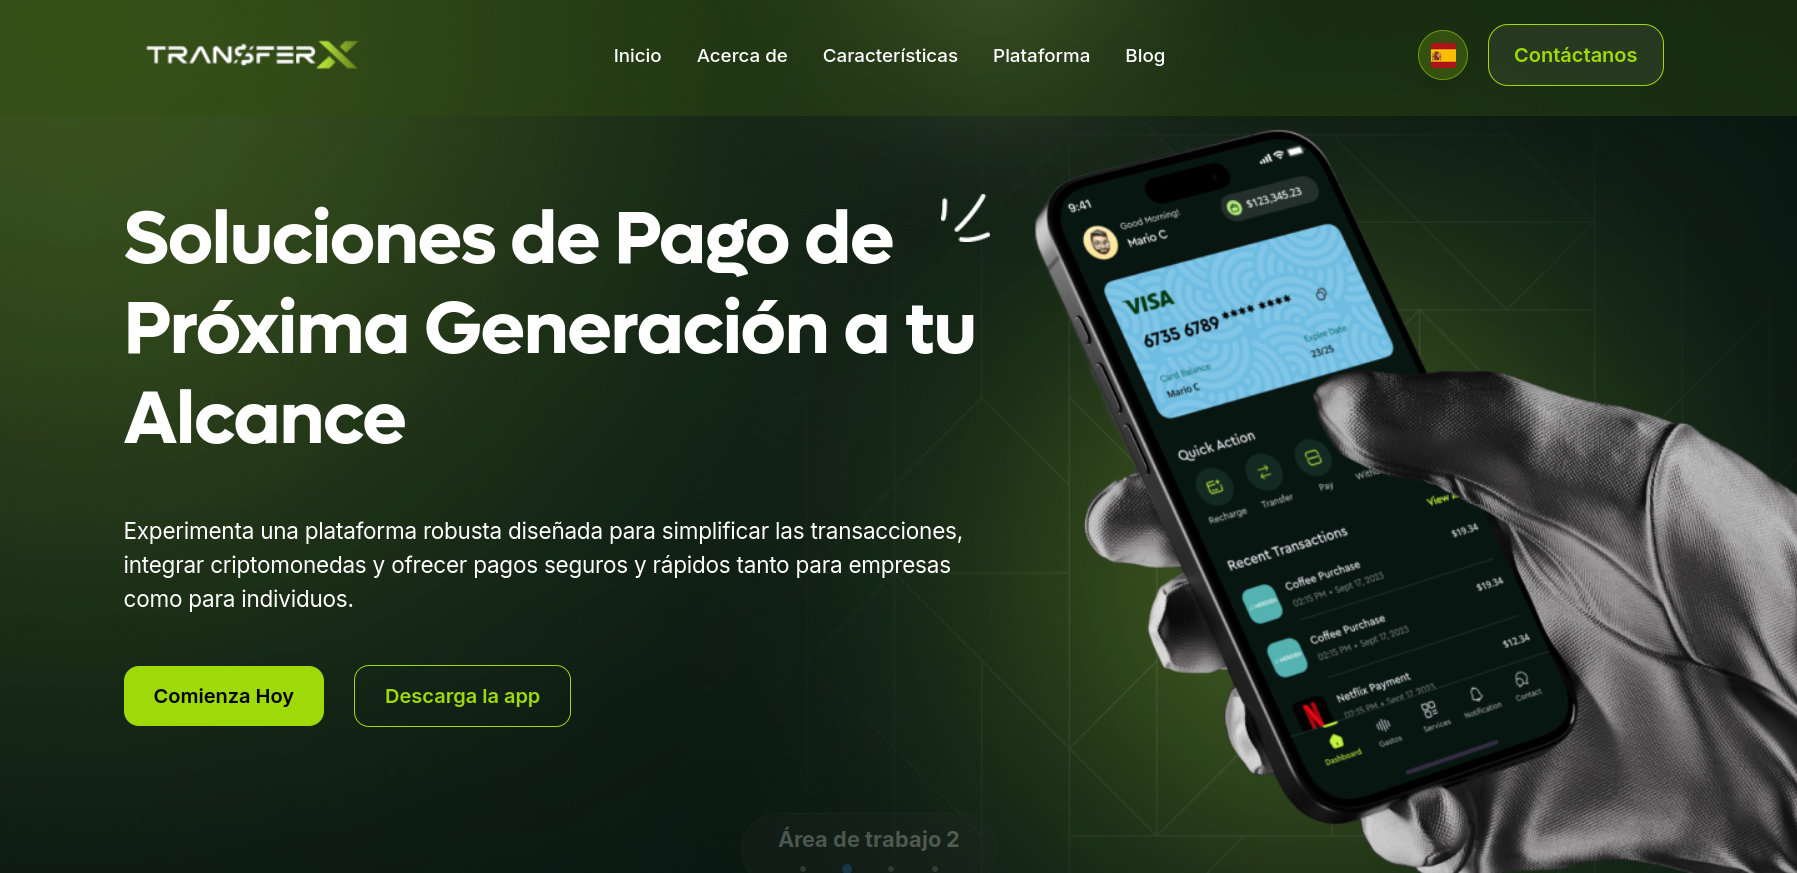
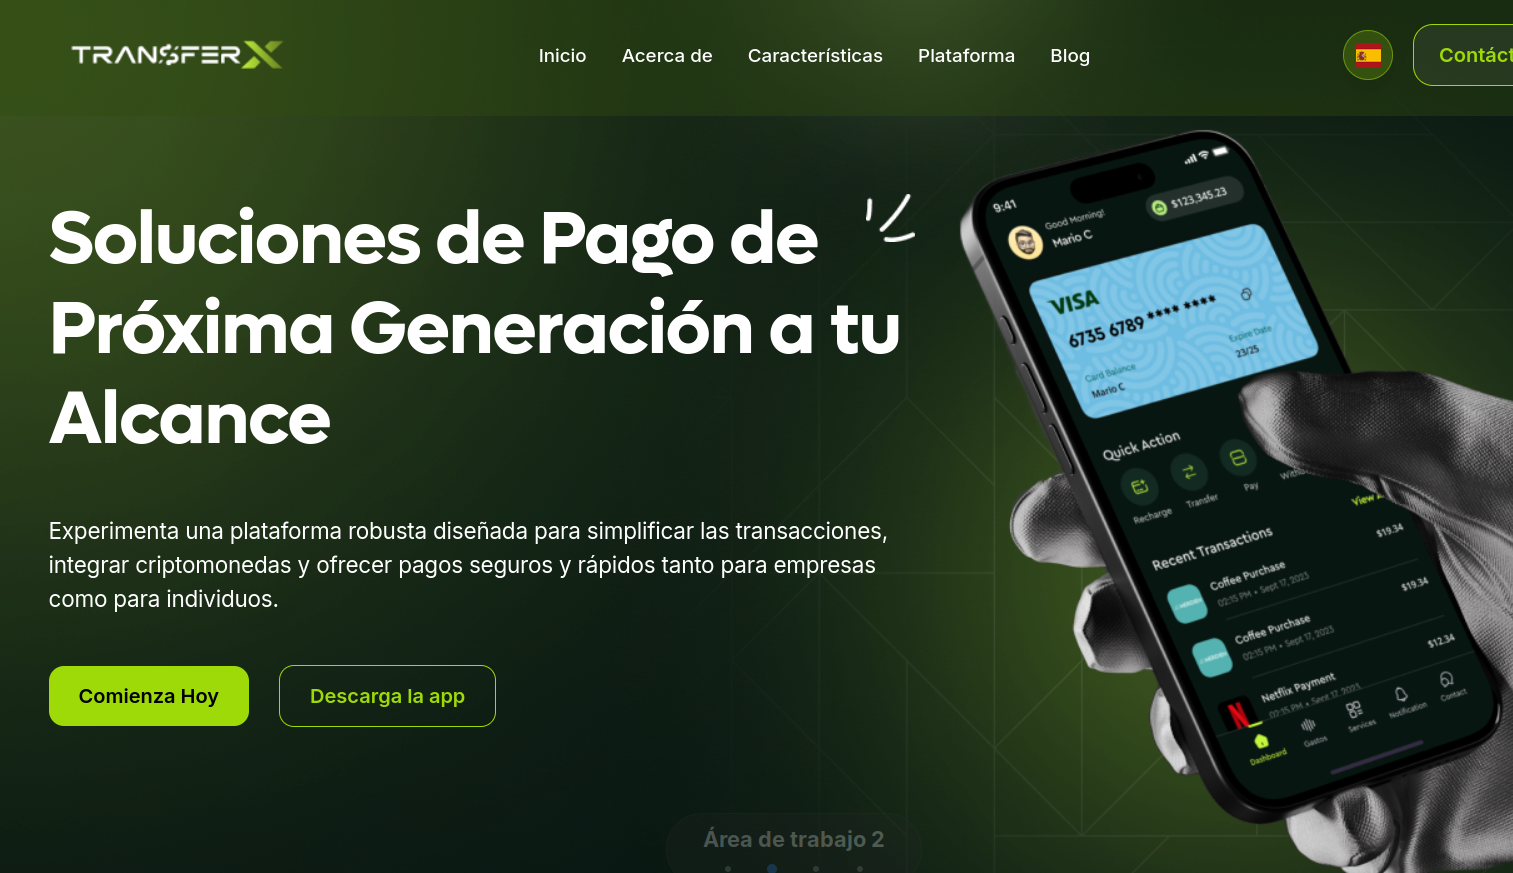
Todas las importaciones de CSS ya están cubiertas por src/swiper-css.d.ts. Ahora incluye:
swiper/css
swiper/css/navigation
swiper/css/pagination
yet-another-react-lightbox/styles.css
yet-another-react-lightbox/plugins/thumbnails.css

diff --git a/src/react/ProyectCarrousel.tsx b/src/react/ProyectCarrousel.tsx
@@ -94,12 +94,13 @@ export default function ProyectCarrousel({
                 <SwiperSlide key={project.id} className="group">
                   <div className="flex flex-col gap-6">
                     {/* Image Container */}
-                    <div className="relative aspect-[4/3] md:aspect-[16/10] overflow-hidden rounded-3xl bg-gray-200 filter-[grayscale(1)] group-hover:filter-none transition-all duration-700">
+                    <div className="relative aspect-video overflow-hidden rounded-3xl bg-gray-200 grayscale group-hover:grayscale-0 transition-all duration-700">
                       <img
                         src={`${import.meta.env.BASE_URL}images/${project.image}`}
                         alt={project.title}
                         className="w-full h-full object-cover transition-transform duration-700 group-hover:scale-105"
                       />
+
 
                       {/* Hover Overlay Button */}
                       <div

diff --git a/src/swiper-css.d.ts b/src/swiper-css.d.ts
@@ -2,4 +2,8 @@ declare module "swiper/css" {}
 
 declare module "swiper/css/navigation" {}
 
+declare module "swiper/css/pagination" {}
+
 declare module "yet-another-react-lightbox/styles.css" {}
+
+declare module "yet-another-react-lightbox/plugins/thumbnails.css" {}
